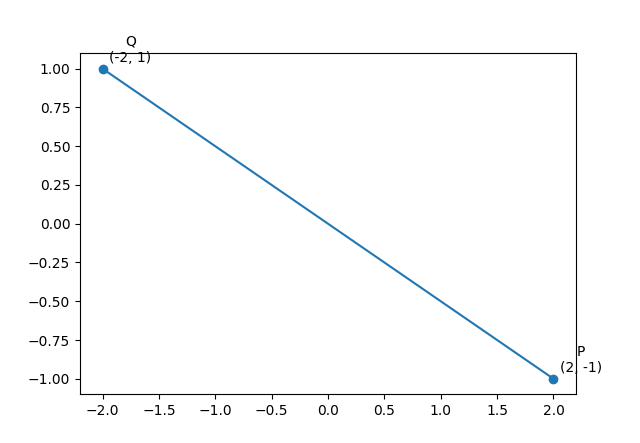
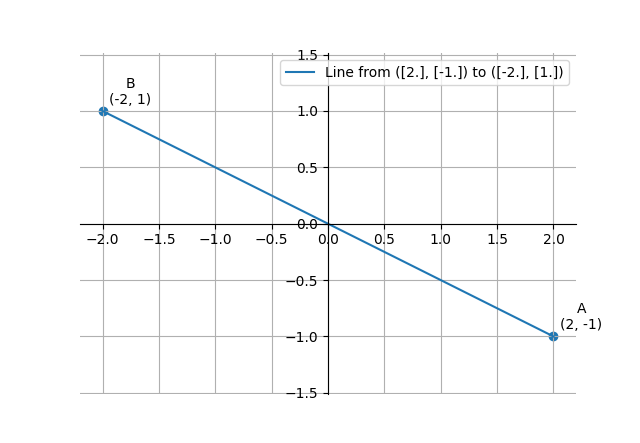
added assignment

diff --git a/matgeo_questions/1-1.9-1/codes/plotting.py b/matgeo_questions/1-1.9-1/codes/plotting.py
@@ -18,17 +18,13 @@ def customize_plot():
     ax.spines['bottom'].set_position('zero')#repositions the bottom axis at y=0
 
     # Uncomment the following lines if you want to add labels to the axes
-    # plt.xlabel('$x$')
-    # plt.ylabel('$y$')
+    #plt.xlabel('$x$')
+    #plt.ylabel('$y$')
     
     plt.legend(loc='best')#adds legend to the plot and loc='best' automatically chooses the location that minimizes overlap with the actual plot elements
     plt.grid(True)#shows the grid
     plt.axis('equal')#ensures each unit on the x-axis is equal to that on y-axis
 
-# Example usage:
-# After plotting your data, call this function to apply the customizations:
-# customize_plot()
-# plt.show()
 
 def plot_points(points, labels):
     """
@@ -50,28 +46,21 @@ def plot_points(points, labels):
                      ha='center') # Horizontal alignment can be left, right, or center
 
 
-data = np.genfromtxt('values.dat', delimiter=' ', names=True)
-x = data['x']
-y = data['y']
-A = np.array(([x[0], y[0]])).reshape(-1,1) 
-B = np.array(([x[1], y[1]])).reshape(-1,1)
-# Example usage:
-# A = np.array([1, 2])
-# B = np.array([4, 6])
-# C = np.array([8, 3])
-# points = np.block([[A, B, C]])
-# labels = ['A', 'B', 'C']
-# plot_points_with_labels(points, labels)
-
 
 def plot_line(P, Q):
     x_PQ = line_gen(P,Q)#GVV function
 
     # Plot the line
     plt.plot(x_PQ[0, :], x_PQ[1, :], label=f'Line from ({P[0]}, {P[1]}) to ({Q[0]}, {Q[1]})')#plots the x and y coordinates in X_AB
+
 data = np.genfromtxt('values.dat', delimiter=' ', names=True)
 x = data['x']
 y = data['y']
 P = np.array(([x[0], y[0]])).reshape(-1,1)
 Q = np.array(([x[1], y[1]])).reshape(-1,1)
 plot_line(P, Q)
+points = np.block([[P, Q]])
+labels = ['A', 'B']
+plot_points(points, labels)
+customize_plot()
+plt.show()

diff --git a/matgeo_questions/1-1.9-1/tables/table1.tex b/matgeo_questions/1-1.9-1/tables/table1.tex
@@ -3,9 +3,11 @@
         \hline
             \textbf{Variable} & \textbf{Description} & \textbf{Values} \\ 
         \hline
-            $A$ & A Point & $\myvec{m & -n}^T$\\ 
+            $A$ & A Point & $\myvec{m \\
+            -n}$\\ 
         \hline
-            $B$ & A Point & $\myvec{-m & n}^T$\\ 
+            $B$ & A Point & $\myvec{-m \\
+            n}$\\ 
         \hline
     \end{tabular}
 \end{center}  
